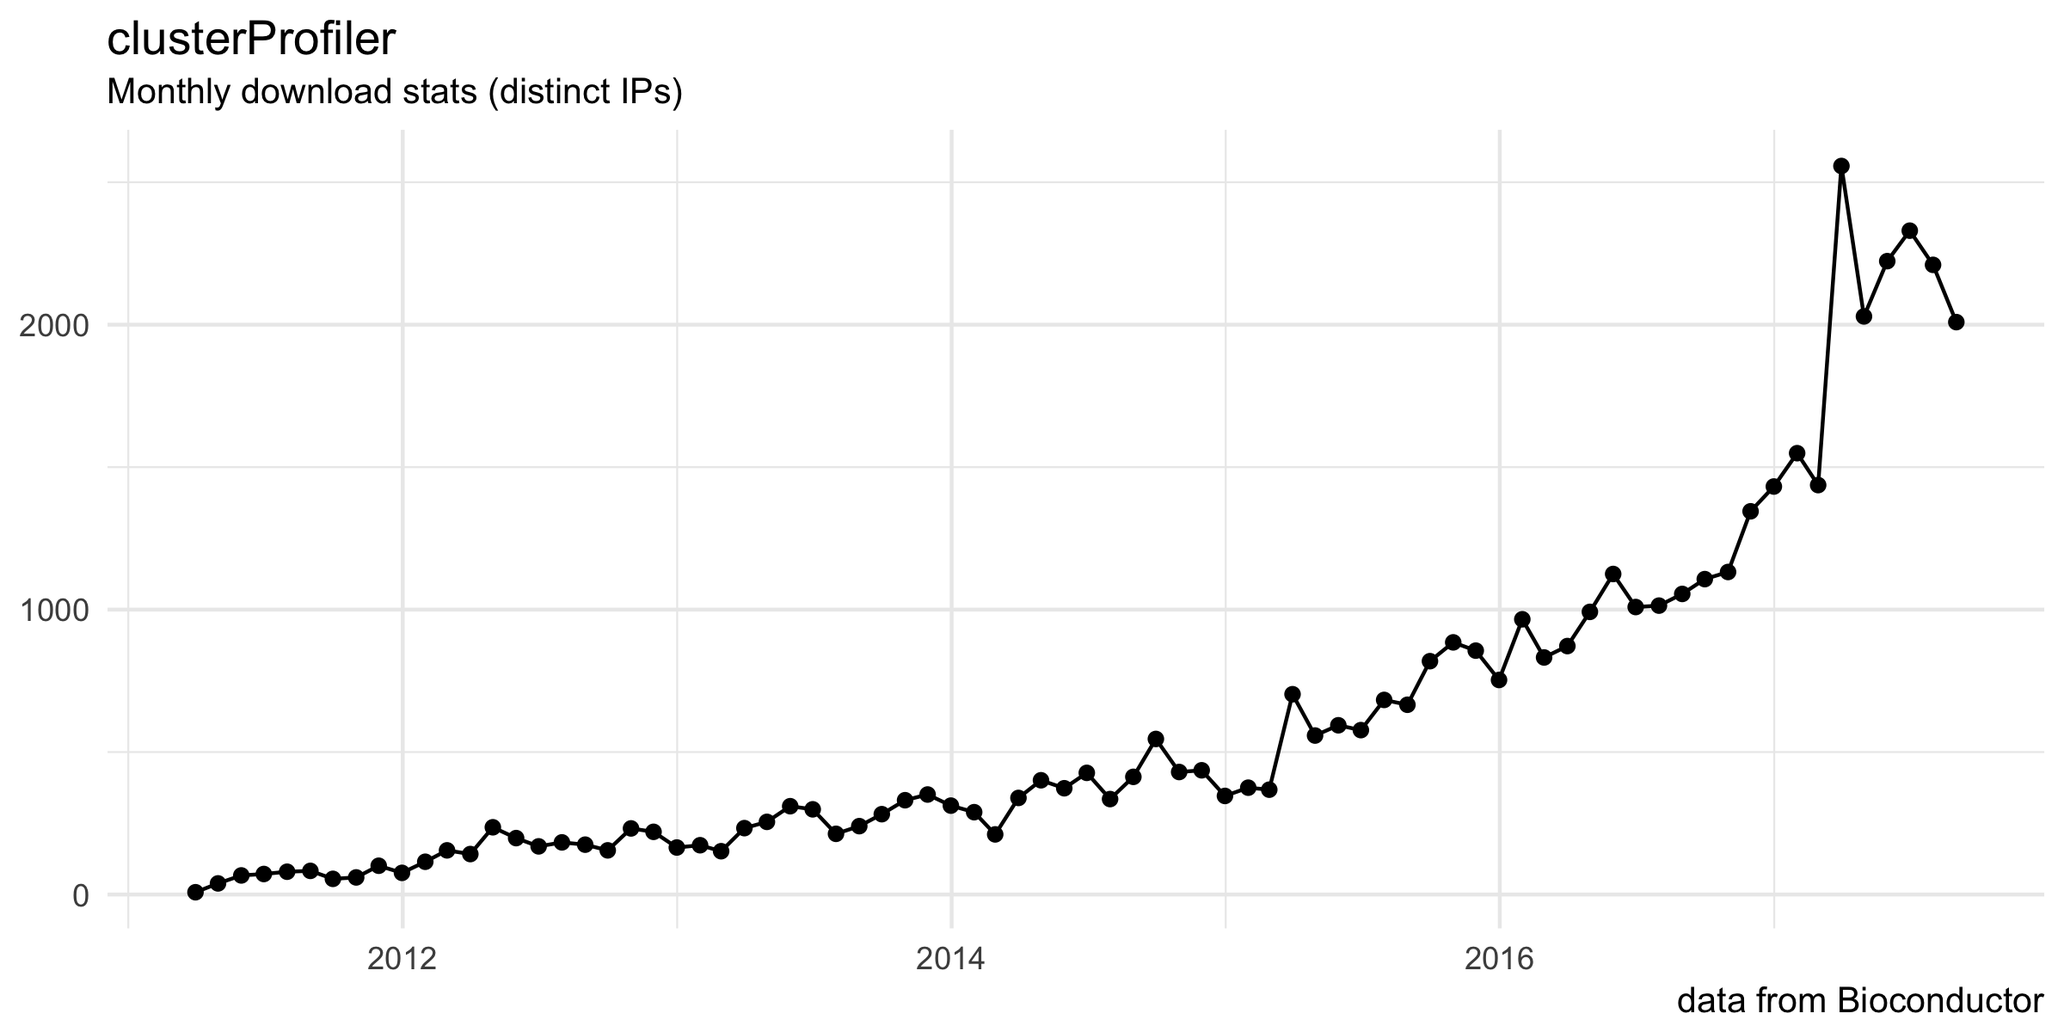
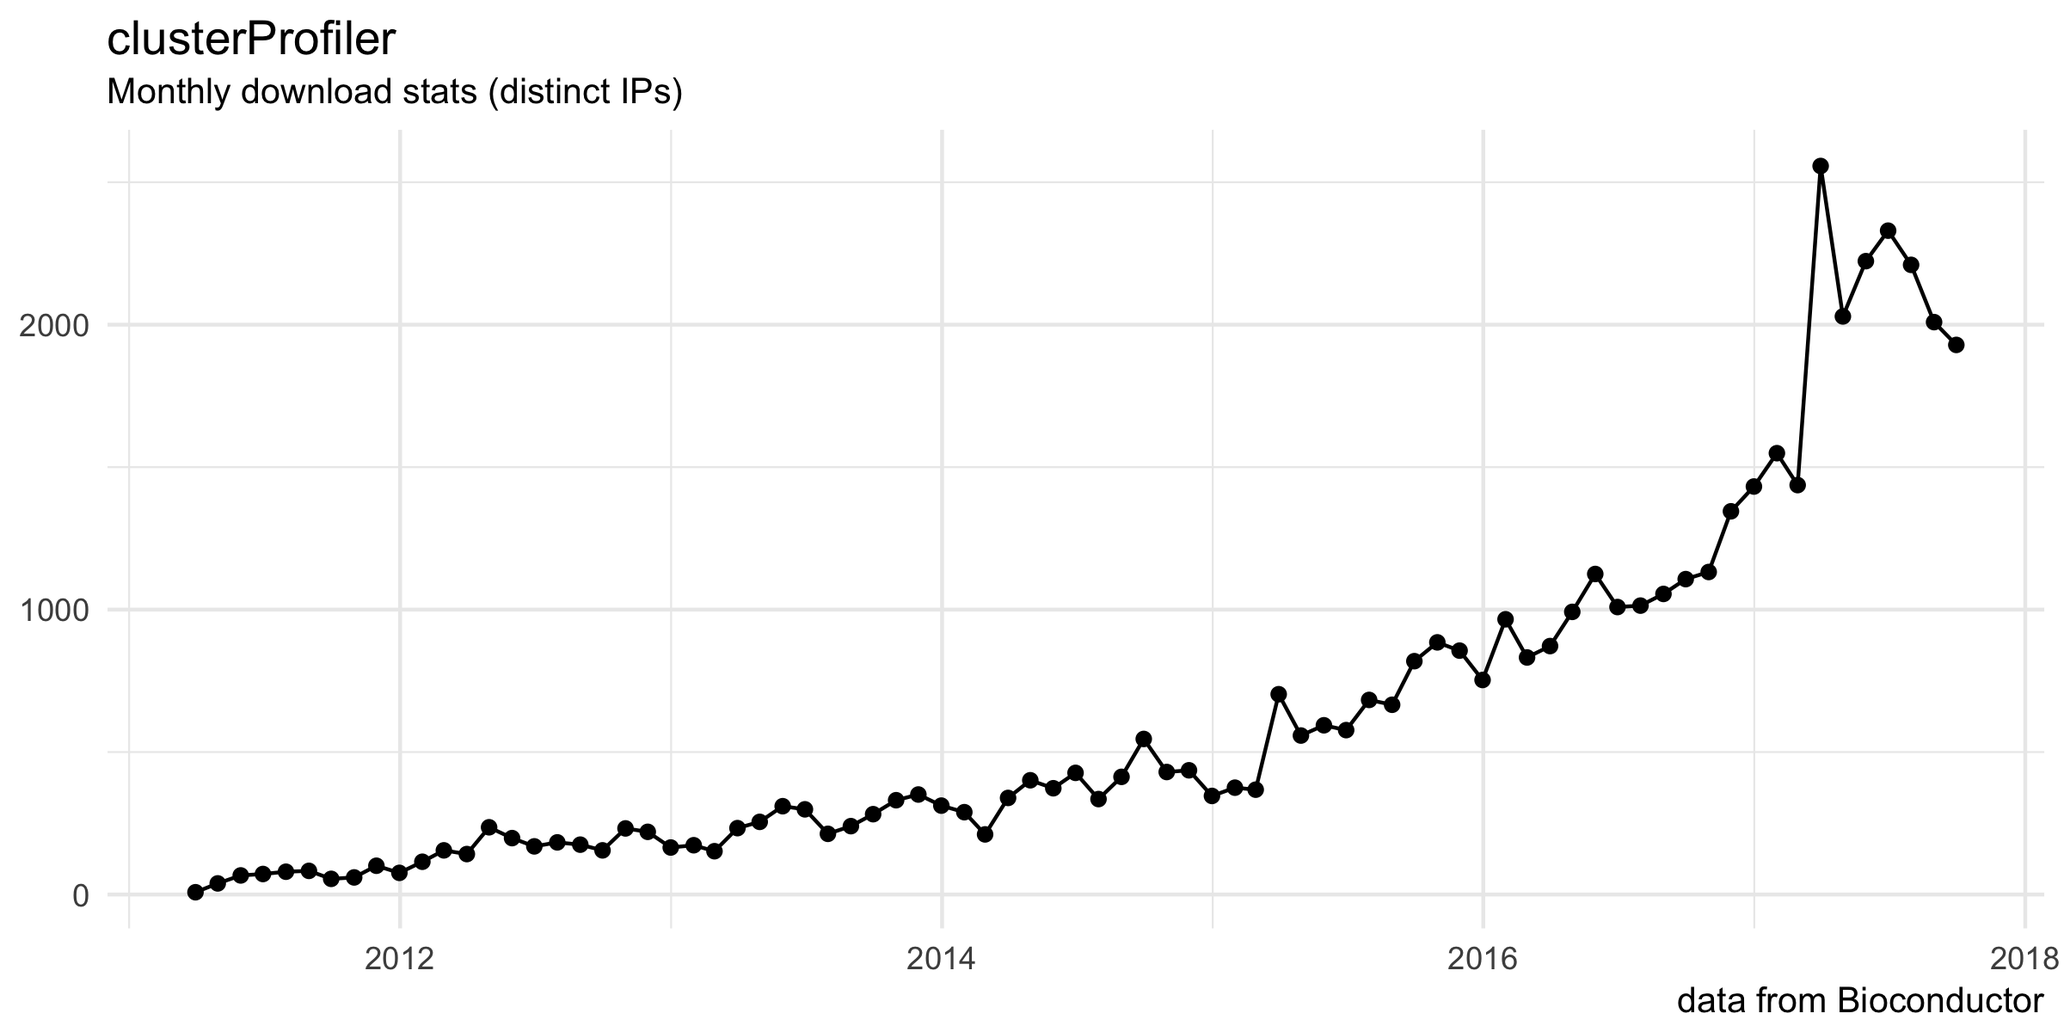
update docs

diff --git a/docs/index.html b/docs/index.html
@@ -9,7 +9,7 @@
     <meta charset="utf-8">
     <meta name="viewport" content="width=device-width,user-scalable=no,initial-scale=1,maximum-scale=1">
     <meta http-equiv="X-UA-Compatible" content="IE=10" />
-    <title>clusterProfiler</title>
+    <title>clusterProfiler: statistical analysis and visualization of functional profiles for genes and gene clusters - clusterProfiler</title>
     <meta name="generator" content="Hugo 0.24.1" />
 
     
@@ -69,9 +69,6 @@
     <script src="https://guangchuangyu.github.io/clusterProfiler/javascripts/modernizr.js"></script>
 
     
-    <link href="https://guangchuangyu.github.io/clusterProfiler/index.xml" rel="alternate" type="application/rss+xml" title="clusterProfiler" />
-    <link href="https://guangchuangyu.github.io/clusterProfiler/index.xml" rel="feed" type="application/rss+xml" title="clusterProfiler" />
-    
 
   </head>
   <body class="palette-primary-teal palette-accent-teal">
@@ -100,7 +97,7 @@
     </div>
     <div class="stretch">
       <div class="title">
-        clusterProfiler
+        clusterProfiler: statistical analysis and visualization of functional profiles for genes and gene clusters
       </div>
     </div>
 
@@ -286,12 +283,11 @@
 
 	<article class="article">
 		<div class="wrapper">
-			
-				<h1>clusterProfiler: statistical analysis and visualization of functional profiles for genes and gene clusters </h1>
+			<h1>clusterProfiler: statistical analysis and visualization of functional profiles for genes and gene clusters </h1>
 
-				<p><img src="https://raw.githubusercontent.com/Bioconductor/BiocStickers/master/clusterProfiler/clusterProfiler.png" height="200" align="right" /></p>
+			<p><img src="https://raw.githubusercontent.com/Bioconductor/BiocStickers/master/clusterProfiler/clusterProfiler.png" height="200" align="right" /></p>
 <p><link rel="stylesheet" href="https://guangchuangyu.github.io/css/font-awesome.min.css"></p>
-<p><a href="https://bioconductor.org/packages/clusterProfiler"><img src="https://img.shields.io/badge/release%20version-3.4.4-blue.svg?style=flat" alt="releaseVersion" /></a> <a href="https://github.com/guangchuangyu/clusterProfiler"><img src="https://img.shields.io/badge/devel%20version-3.5.5-blue.svg?style=flat" alt="develVersion" /></a> <a href="https://bioconductor.org/packages/stats/bioc/clusterProfiler"><img src="https://img.shields.io/badge/downloads-49108/total-blue.svg?style=flat" alt="total" /></a> <a href="https://bioconductor.org/packages/stats/bioc/clusterProfiler"><img src="https://img.shields.io/badge/downloads-2009/month-blue.svg?style=flat" alt="month" /></a></p>
+<p><a href="https://bioconductor.org/packages/clusterProfiler"><img src="https://img.shields.io/badge/release%20version-3.4.4-blue.svg?style=flat" alt="releaseVersion" /></a> <a href="https://github.com/guangchuangyu/clusterProfiler"><img src="https://img.shields.io/badge/devel%20version-3.5.6-blue.svg?style=flat" alt="develVersion" /></a> <a href="https://bioconductor.org/packages/stats/bioc/clusterProfiler"><img src="https://img.shields.io/badge/downloads-49804/total-blue.svg?style=flat" alt="total" /></a> <a href="https://bioconductor.org/packages/stats/bioc/clusterProfiler"><img src="https://img.shields.io/badge/downloads-1929/month-blue.svg?style=flat" alt="month" /></a></p>
 <p>The <a href="https://bioconductor.org/packages/clusterProfiler/">clusterProfiler</a> package implements methods to analyze and visualize functional profiles of genomic coordinates (supported by ChIPseeker), gene and gene clusters.</p>
 <p><a href="https://bioconductor.org/packages/clusterProfiler/">clusterProfiler</a> is released within the <a href="https://bioconductor.org/packages/clusterProfiler">Bioconductor</a> project and the source code is hosted on <a href="https://github.com/GuangchuangYu/clusterProfiler"><i class="fa fa-github fa-lg"></i> GitHub</a>.</p>
 <div id="author" class="section level2">
@@ -301,7 +297,7 @@
 <div id="citation" class="section level2">
 <h2><i class="fa fa-book"></i> Citation</h2>
 <p>Please cite the following article when using <a href="https://bioconductor.org/packages/clusterProfiler/">clusterProfiler</a>:</p>
-<p><a href="http://dx.doi.org/10.1089/omi.2011.0118"><img src="https://img.shields.io/badge/doi-10.1089/omi.2011.0118-blue.svg?style=flat" alt="doi" /></a> <a href="https://www.altmetric.com/details/681089"><img src="https://img.shields.io/badge/Altmetric-23-blue.svg?style=flat" alt="Altmetric" /></a> <a href="http://online.liebertpub.com/action/showMostCitedArticles?journalCode=omi"><img src="https://img.shields.io/badge/2nd%20most%20cited%20paper-in%20OMICS-blue.svg?style=flat" /></a> <a href="https://scholar.google.com.hk/scholar?oi=bibs&amp;hl=en&amp;cites=2349076811020942117"><img src="https://img.shields.io/badge/cited%20by-271-blue.svg?style=flat" alt="citation" /></a> <img src="https://img.shields.io/badge/ESI-Highly%20Cited%20Paper-blue.svg?style=flat" /></p>
+<p><a href="http://dx.doi.org/10.1089/omi.2011.0118"><img src="https://img.shields.io/badge/doi-10.1089/omi.2011.0118-blue.svg?style=flat" alt="doi" /></a> <a href="https://www.altmetric.com/details/681089"><img src="https://img.shields.io/badge/Altmetric-23-blue.svg?style=flat" alt="Altmetric" /></a> <a href="http://online.liebertpub.com/action/showMostCitedArticles?journalCode=omi"><img src="https://img.shields.io/badge/2nd%20most%20cited%20paper-in%20OMICS-blue.svg?style=flat" /></a> <a href="https://scholar.google.com.hk/scholar?oi=bibs&amp;hl=en&amp;cites=2349076811020942117"><img src="https://img.shields.io/badge/cited%20by-275-blue.svg?style=flat" alt="citation" /></a> <img src="https://img.shields.io/badge/ESI-Highly%20Cited%20Paper-blue.svg?style=flat" /></p>
 <p><strong>Yu G</strong>, Wang L, Han Y and He Q<sup>*</sup>. clusterProfiler: an R package for comparing biological themes among gene clusters. <strong><em>OMICS: A Journal of Integrative Biology</em></strong>. 2012, 16(5):284-287.</p>
 </div>
 <div id="featured-articles" class="section level2">
@@ -410,6 +406,7 @@ biocLite(&quot;clusterProfiler&quot;)</code></pre>
 <ul>
 <li><a href="https://www.bioconductor.org/packages/bioCancer">bioCancer</a>: Interactive Multi-Omics Cancers Data Visualization and Analysis</li>
 <li><a href="https://www.bioconductor.org/packages/CEMiTool">CEMiTool</a>: Co-expression Modules identification Tool</li>
+<li><a href="https://www.bioconductor.org/packages/DAPAR">DAPAR</a>: Tools for the Differential Analysis of Proteins Abundance with R</li>
 <li><a href="https://www.bioconductor.org/packages/debrowser">debrowser</a>: Interactive Differential Expresion Analysis Browser</li>
 <li><a href="https://www.bioconductor.org/packages/eegc">eegc</a>: Engineering Evaluation by Gene Categorization (eegc)</li>
 <li><a href="https://www.bioconductor.org/packages/LINC">LINC</a>: co-expression of lincRNAs and protein-coding genes</li>
@@ -443,7 +440,6 @@ biocLite(&quot;clusterProfiler&quot;)</code></pre>
 </ul>
 </div>
 
-			
 
 			<aside class="copyright" role="note">
 				
@@ -458,16 +454,13 @@ biocLite(&quot;clusterProfiler&quot;)</code></pre>
 			<footer class="footer">
 				
 
-
-
 <nav class="pagination" aria-label="Footer">
   <div class="previous">
+  
   </div>
 
-  
-  
-
   <div class="next">
+  
       <a href="https://guangchuangyu.github.io/clusterProfiler/documentation/" title="Documentation">
         <span class="direction">
           Next
@@ -483,8 +476,11 @@ biocLite(&quot;clusterProfiler&quot;)</code></pre>
           </div>
         </div>
       </a>
+  
   </div>
 </nav>
+
+
 
 
 

diff --git a/site_src/content/index.html b/site_src/content/index.html
@@ -9,7 +9,7 @@ weight: 1
 
 <p><img src="https://raw.githubusercontent.com/Bioconductor/BiocStickers/master/clusterProfiler/clusterProfiler.png" height="200" align="right" /></p>
 <p><link rel="stylesheet" href="https://guangchuangyu.github.io/css/font-awesome.min.css"></p>
-<p><a href="https://bioconductor.org/packages/clusterProfiler"><img src="https://img.shields.io/badge/release%20version-3.4.4-blue.svg?style=flat" alt="releaseVersion" /></a> <a href="https://github.com/guangchuangyu/clusterProfiler"><img src="https://img.shields.io/badge/devel%20version-3.5.5-blue.svg?style=flat" alt="develVersion" /></a> <a href="https://bioconductor.org/packages/stats/bioc/clusterProfiler"><img src="https://img.shields.io/badge/downloads-49108/total-blue.svg?style=flat" alt="total" /></a> <a href="https://bioconductor.org/packages/stats/bioc/clusterProfiler"><img src="https://img.shields.io/badge/downloads-2009/month-blue.svg?style=flat" alt="month" /></a></p>
+<p><a href="https://bioconductor.org/packages/clusterProfiler"><img src="https://img.shields.io/badge/release%20version-3.4.4-blue.svg?style=flat" alt="releaseVersion" /></a> <a href="https://github.com/guangchuangyu/clusterProfiler"><img src="https://img.shields.io/badge/devel%20version-3.5.6-blue.svg?style=flat" alt="develVersion" /></a> <a href="https://bioconductor.org/packages/stats/bioc/clusterProfiler"><img src="https://img.shields.io/badge/downloads-49804/total-blue.svg?style=flat" alt="total" /></a> <a href="https://bioconductor.org/packages/stats/bioc/clusterProfiler"><img src="https://img.shields.io/badge/downloads-1929/month-blue.svg?style=flat" alt="month" /></a></p>
 <p>The <a href="https://bioconductor.org/packages/clusterProfiler/">clusterProfiler</a> package implements methods to analyze and visualize functional profiles of genomic coordinates (supported by ChIPseeker), gene and gene clusters.</p>
 <p><a href="https://bioconductor.org/packages/clusterProfiler/">clusterProfiler</a> is released within the <a href="https://bioconductor.org/packages/clusterProfiler">Bioconductor</a> project and the source code is hosted on <a href="https://github.com/GuangchuangYu/clusterProfiler"><i class="fa fa-github fa-lg"></i> GitHub</a>.</p>
 <div id="author" class="section level2">
@@ -19,7 +19,7 @@ weight: 1
 <div id="citation" class="section level2">
 <h2><i class="fa fa-book"></i> Citation</h2>
 <p>Please cite the following article when using <a href="https://bioconductor.org/packages/clusterProfiler/">clusterProfiler</a>:</p>
-<p><a href="http://dx.doi.org/10.1089/omi.2011.0118"><img src="https://img.shields.io/badge/doi-10.1089/omi.2011.0118-blue.svg?style=flat" alt="doi" /></a> <a href="https://www.altmetric.com/details/681089"><img src="https://img.shields.io/badge/Altmetric-23-blue.svg?style=flat" alt="Altmetric" /></a> <a href="http://online.liebertpub.com/action/showMostCitedArticles?journalCode=omi"><img src="https://img.shields.io/badge/2nd%20most%20cited%20paper-in%20OMICS-blue.svg?style=flat" /></a> <a href="https://scholar.google.com.hk/scholar?oi=bibs&amp;hl=en&amp;cites=2349076811020942117"><img src="https://img.shields.io/badge/cited%20by-271-blue.svg?style=flat" alt="citation" /></a> <img src="https://img.shields.io/badge/ESI-Highly%20Cited%20Paper-blue.svg?style=flat" /></p>
+<p><a href="http://dx.doi.org/10.1089/omi.2011.0118"><img src="https://img.shields.io/badge/doi-10.1089/omi.2011.0118-blue.svg?style=flat" alt="doi" /></a> <a href="https://www.altmetric.com/details/681089"><img src="https://img.shields.io/badge/Altmetric-23-blue.svg?style=flat" alt="Altmetric" /></a> <a href="http://online.liebertpub.com/action/showMostCitedArticles?journalCode=omi"><img src="https://img.shields.io/badge/2nd%20most%20cited%20paper-in%20OMICS-blue.svg?style=flat" /></a> <a href="https://scholar.google.com.hk/scholar?oi=bibs&amp;hl=en&amp;cites=2349076811020942117"><img src="https://img.shields.io/badge/cited%20by-275-blue.svg?style=flat" alt="citation" /></a> <img src="https://img.shields.io/badge/ESI-Highly%20Cited%20Paper-blue.svg?style=flat" /></p>
 <p><strong>Yu G</strong>, Wang L, Han Y and He Q<sup>*</sup>. clusterProfiler: an R package for comparing biological themes among gene clusters. <strong><em>OMICS: A Journal of Integrative Biology</em></strong>. 2012, 16(5):284-287.</p>
 </div>
 <div id="featured-articles" class="section level2">
@@ -128,6 +128,7 @@ biocLite(&quot;clusterProfiler&quot;)</code></pre>
 <ul>
 <li><a href="https://www.bioconductor.org/packages/bioCancer">bioCancer</a>: Interactive Multi-Omics Cancers Data Visualization and Analysis</li>
 <li><a href="https://www.bioconductor.org/packages/CEMiTool">CEMiTool</a>: Co-expression Modules identification Tool</li>
+<li><a href="https://www.bioconductor.org/packages/DAPAR">DAPAR</a>: Tools for the Differential Analysis of Proteins Abundance with R</li>
 <li><a href="https://www.bioconductor.org/packages/debrowser">debrowser</a>: Interactive Differential Expresion Analysis Browser</li>
 <li><a href="https://www.bioconductor.org/packages/eegc">eegc</a>: Engineering Evaluation by Gene Categorization (eegc)</li>
 <li><a href="https://www.bioconductor.org/packages/LINC">LINC</a>: co-expression of lincRNAs and protein-coding genes</li>

diff --git a/site_src/content/featured-articles/index.html b/site_src/content/featured-articles/index.html
@@ -11,6 +11,7 @@ weight: 20
 <p><img src="../images/citation.png" width="880"/></p>
 <div id="section" class="section level2">
 <h2><i class="fa fa-calendar"></i> 2017</h2>
+<p><a href="http://dx.doi.org/10.1073/pnas.1710885114">Mediator subunit MED25 links the jasmonate receptor to transcriptionally active chromatin</a>. <strong><em>PNAS</em></strong>. 2017</p>
 <p><a href="http://dx.doi.org/10.1073/pnas.1617384114">qSVA framework for RNA quality correction in differential expression analysis</a>. <strong><em>PNAS</em></strong>. 2017</p>
 <p><a href="http://dx.doi.org/10.1093/bib/bbw139">Gene co-expression analysis for functional classification and gene–disease predictions</a>. <strong><em>Brief Bioinform</em></strong>. 2017.</p>
 <p><a href="http://genomebiology.biomedcentral.com/articles/10.1186/s13059-017-1197-z">H2A monoubiquitination in Arabidopsis thaliana is generally independent of LHP1 and PRC2 activity</a>. <strong><em>Genome Biology</em></strong>. 2017, 18:69</p>

diff --git a/docs/featured-articles/index.html b/docs/featured-articles/index.html
@@ -293,6 +293,7 @@
 <p><img src="../images/citation.png" width="880"/></p>
 <div id="section" class="section level2">
 <h2><i class="fa fa-calendar"></i> 2017</h2>
+<p><a href="http://dx.doi.org/10.1073/pnas.1710885114">Mediator subunit MED25 links the jasmonate receptor to transcriptionally active chromatin</a>. <strong><em>PNAS</em></strong>. 2017</p>
 <p><a href="http://dx.doi.org/10.1073/pnas.1617384114">qSVA framework for RNA quality correction in differential expression analysis</a>. <strong><em>PNAS</em></strong>. 2017</p>
 <p><a href="http://dx.doi.org/10.1093/bib/bbw139">Gene co-expression analysis for functional classification and gene–disease predictions</a>. <strong><em>Brief Bioinform</em></strong>. 2017.</p>
 <p><a href="http://genomebiology.biomedcentral.com/articles/10.1186/s13059-017-1197-z">H2A monoubiquitination in Arabidopsis thaliana is generally independent of LHP1 and PRC2 activity</a>. <strong><em>Genome Biology</em></strong>. 2017, 18:69</p>

diff --git a/README.md b/README.md
@@ -3,9 +3,9 @@ clusterProfiler
 
 <img src="https://raw.githubusercontent.com/Bioconductor/BiocStickers/master/clusterProfiler/clusterProfiler.png" height="200" align="right" />
 
-[![releaseVersion](https://img.shields.io/badge/release%20version-3.4.4-green.svg?style=flat)](https://bioconductor.org/packages/clusterProfiler) [![develVersion](https://img.shields.io/badge/devel%20version-3.5.5-green.svg?style=flat)](https://github.com/guangchuangyu/clusterProfiler) [![Bioc](http://www.bioconductor.org/shields/years-in-bioc/clusterProfiler.svg)](https://www.bioconductor.org/packages/devel/bioc/html/clusterProfiler.html#since) [![total](https://img.shields.io/badge/downloads-49108/total-blue.svg?style=flat)](https://bioconductor.org/packages/stats/bioc/clusterProfiler) [![month](https://img.shields.io/badge/downloads-2009/month-blue.svg?style=flat)](https://bioconductor.org/packages/stats/bioc/clusterProfiler)
+[![releaseVersion](https://img.shields.io/badge/release%20version-3.4.4-green.svg?style=flat)](https://bioconductor.org/packages/clusterProfiler) [![develVersion](https://img.shields.io/badge/devel%20version-3.5.6-green.svg?style=flat)](https://github.com/guangchuangyu/clusterProfiler) [![Bioc](http://www.bioconductor.org/shields/years-in-bioc/clusterProfiler.svg)](https://www.bioconductor.org/packages/devel/bioc/html/clusterProfiler.html#since) [![total](https://img.shields.io/badge/downloads-49804/total-blue.svg?style=flat)](https://bioconductor.org/packages/stats/bioc/clusterProfiler) [![month](https://img.shields.io/badge/downloads-1929/month-blue.svg?style=flat)](https://bioconductor.org/packages/stats/bioc/clusterProfiler)
 
-[![Project Status: Active - The project has reached a stable, usable state and is being actively developed.](http://www.repostatus.org/badges/latest/active.svg)](http://www.repostatus.org/#active) [![codecov](https://codecov.io/gh/GuangchuangYu/clusterProfiler/branch/master/graph/badge.svg)](https://codecov.io/gh/GuangchuangYu/clusterProfiler/) [![Last-changedate](https://img.shields.io/badge/last%20change-2017--09--28-green.svg)](https://github.com/GuangchuangYu/clusterProfiler/commits/master) [![commit](http://www.bioconductor.org/shields/commits/bioc/clusterProfiler.svg)](https://www.bioconductor.org/packages/devel/bioc/html/clusterProfiler.html#svn_source) [![GitHub forks](https://img.shields.io/github/forks/GuangchuangYu/clusterProfiler.svg)](https://github.com/GuangchuangYu/clusterProfiler/network) [![GitHub stars](https://img.shields.io/github/stars/GuangchuangYu/clusterProfiler.svg)](https://github.com/GuangchuangYu/clusterProfiler/stargazers)
+[![Project Status: Active - The project has reached a stable, usable state and is being actively developed.](http://www.repostatus.org/badges/latest/active.svg)](http://www.repostatus.org/#active) [![codecov](https://codecov.io/gh/GuangchuangYu/clusterProfiler/branch/master/graph/badge.svg)](https://codecov.io/gh/GuangchuangYu/clusterProfiler/) [![Last-changedate](https://img.shields.io/badge/last%20change-2017--10--09-green.svg)](https://github.com/GuangchuangYu/clusterProfiler/commits/master) [![commit](http://www.bioconductor.org/shields/commits/bioc/clusterProfiler.svg)](https://www.bioconductor.org/packages/devel/bioc/html/clusterProfiler.html#svn_source) [![GitHub forks](https://img.shields.io/github/forks/GuangchuangYu/clusterProfiler.svg)](https://github.com/GuangchuangYu/clusterProfiler/network) [![GitHub stars](https://img.shields.io/github/stars/GuangchuangYu/clusterProfiler.svg)](https://github.com/GuangchuangYu/clusterProfiler/stargazers)
 
 [![platform](http://www.bioconductor.org/shields/availability/devel/clusterProfiler.svg)](https://www.bioconductor.org/packages/devel/bioc/html/clusterProfiler.html#archives) [![Build Status](http://www.bioconductor.org/shields/build/devel/bioc/clusterProfiler.svg)](https://bioconductor.org/checkResults/devel/bioc-LATEST/clusterProfiler/) [![Linux/Mac Travis Build Status](https://img.shields.io/travis/GuangchuangYu/clusterProfiler/master.svg?label=Mac%20OSX%20%26%20Linux)](https://travis-ci.org/GuangchuangYu/clusterProfiler) [![AppVeyor Build Status](https://img.shields.io/appveyor/ci/Guangchuangyu/clusterProfiler/master.svg?label=Windows)](https://ci.appveyor.com/project/GuangchuangYu/clusterProfiler)
 
@@ -31,12 +31,12 @@ Please cite the following article when using `clusterProfiler`:
 
 ### Citation
 
-[![](https://img.shields.io/badge/2nd%20most%20cited%20paper-in%20OMICS-green.svg?style=flat)](http://online.liebertpub.com/action/showMostCitedArticles?journalCode=omi) [![citation](https://img.shields.io/badge/cited%20by-271-green.svg?style=flat)](https://scholar.google.com.hk/scholar?oi=bibs&hl=en&cites=2349076811020942117) ![](https://img.shields.io/badge/ESI-Highly%20Cited%20Paper-green.svg?style=flat)
+[![](https://img.shields.io/badge/2nd%20most%20cited%20paper-in%20OMICS-green.svg?style=flat)](http://online.liebertpub.com/action/showMostCitedArticles?journalCode=omi) [![citation](https://img.shields.io/badge/cited%20by-275-green.svg?style=flat)](https://scholar.google.com.hk/scholar?oi=bibs&hl=en&cites=2349076811020942117) ![](https://img.shields.io/badge/ESI-Highly%20Cited%20Paper-green.svg?style=flat)
 
 <img src="docs/images/citation.png" width="890"/>
 
 ### Download stats
 
-[![download](http://www.bioconductor.org/shields/downloads/clusterProfiler.svg)](https://bioconductor.org/packages/stats/bioc/clusterProfiler) [![total](https://img.shields.io/badge/downloads-49108/total-blue.svg?style=flat)](https://bioconductor.org/packages/stats/bioc/clusterProfiler) [![month](https://img.shields.io/badge/downloads-2009/month-blue.svg?style=flat)](https://bioconductor.org/packages/stats/bioc/clusterProfiler)
+[![download](http://www.bioconductor.org/shields/downloads/clusterProfiler.svg)](https://bioconductor.org/packages/stats/bioc/clusterProfiler) [![total](https://img.shields.io/badge/downloads-49804/total-blue.svg?style=flat)](https://bioconductor.org/packages/stats/bioc/clusterProfiler) [![month](https://img.shields.io/badge/downloads-1929/month-blue.svg?style=flat)](https://bioconductor.org/packages/stats/bioc/clusterProfiler)
 
 <img src="docs/images/dlstats.png" width="890"/>
